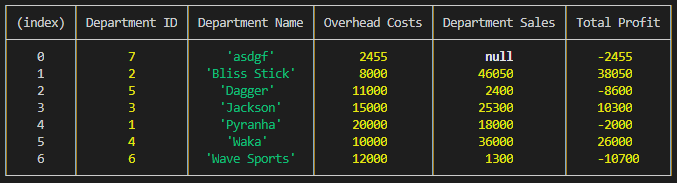
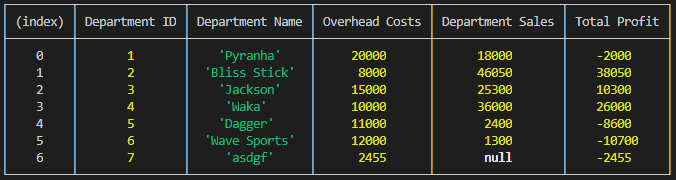
README.md now complete with all instructions as well as images and demonstration video for bamazonSupervisor.js

diff --git a/assets/javascript/bamazonSupervisor.js b/assets/javascript/bamazonSupervisor.js
@@ -20,6 +20,25 @@ function endConn() {
     })  
 }
 
+function rejectRecord() {
+    //prompt the supervisor for what to do when the record is rejected
+    inquirer
+        .prompt ([
+            {
+                type: "list",
+                name: "afterReject",
+                message: "\n\nWhat would you like to do now?\n\n",
+                choices: ["Re-enter the record", "Go back to the main menu", "Exit entirely"],
+                default: "Re-enter the record"
+            },
+        ])
+        .then( answers => {
+            if (answers.afterReject === "Re-enter the record") getDepartment();
+            else if (answers.afterReject === "Go back to the main menu") displayOptions();
+            else endConn();
+        })
+}
+
 function nextTask() {
     //prompt the supervisor for the next task they wish to undertake
     inquirer
@@ -60,6 +79,31 @@ function addDepartment() {
     })
 }
 
+function checkProd() {
+    //ask the user to confirm their data entry
+    console.log("\n\nYou have entered the following information for the new record: " +
+                "\n====================================" +
+                "\nDepartment Name: " + newDept[0] + 
+                "\nDepartment Overheads: " + newDept[1] + 
+                "\n====================================");
+    inquirer
+        .prompt ([
+            {  //user happy for the INSERT to proceed
+                type: "list",
+                name: "recordOk",
+                message: "\n\nAre you happy with the details of the entry?",
+                choices: ["Yes", "No"],
+                default: "Yes"
+            },
+        ])
+        .then(answers => {
+            if(answers.recordOk === "Yes") {
+                addDepartment(); //INSERT the new department into the database
+            }
+            else rejectRecord()  //query what the user wants to do       
+        })
+}
+
 function getDepartment() {
     //prompts the user for the department name
     inquirer
@@ -93,7 +137,7 @@ function getDepartment() {
             //answers of the type {department: 'Riot', overheads: '10000'}
             newDept[0] = answers.department;
             newDept[1] = answers.overheads;
-            addDepartment();
+            checkProd();
         })  
 }
 
@@ -111,7 +155,7 @@ function displaySales() {
                     "LEFT JOIN products AS S2 " +
                     "ON S1.departmentname = S2.departmentname " + 
                     "GROUP BY departmentID, S1.departmentname, overheadcosts " + 
-                    "ORDER BY S1.departmentname",
+                    "ORDER BY S1.departmentid",
         function(err, rows, fields) {
             if (err) throw err;
             console.table(rows);

diff --git a/README.md b/README.md
@@ -67,9 +67,6 @@ Upon intiating the node application _node bamazonManager.js_, the manager is pre
         1. Exit the application and close the database connection.
 
 
-
-
-
 # bamazonSupervisor
 **Purpose:**
 
@@ -84,10 +81,43 @@ Upon intiating the node application _node bamazonSupervisor.js_, the supervisor 
 **View products sales by department**
 1. The supervisor is presented with a table showing the results of a query which performs aggregate functions on the productsales column and also calculates the totalprofit given the overheadcosts and aggregate of productsales for each department. Results are obtained by left joining (in order to get new departments just added which do not yet have productsales) the department and products table and the results are grouped by the departmentID, departmentname and overhead costs.
 
-Department Overheads | Product Sales by Department
--------------------- | ---------------------------
-![Department overheads](assets/images/Departmentoverheads.png) | ![Product sales by department](assets/images/Productsalesbydepartment.png)
-Total Profit
-------------
-![Total Profit](assets/images/Totalprofit.png)
+**Create new department**
+1. The supervisor is asked for the name of the new department and the overheads for the new department. The new department name is required to be non-empty and the overheads is required to be a non-empty number (zero is permissible).
+1. The manager is then presented with a summary of the details of the new department and can optionally accept the record or reject
+    1. If the data is accepted, the record is inserted into the departments table of the database.
+    1. If the data is not accepted the supervisor is presented with three options to choose from.
+        1. Re-enter the record which takes control back to step 1 above.
+        1. Go back to the main menu which takes control to the menu allowing choices to view product sales by department or create new department.
+        1. Exit the application and close the database connection.
+
+<table border="1">
+    <thead>
+        <tr>
+            <th>Department Overheads</th>
+            <th>Product sales by department</th>
+        </tr>
+    </thead>
+    <tbody>
+        <tr>
+            <td><img src="assets/images/Departmentoverheads.png" alt="Department overheads"></td>
+            <td><img src="assets/images/Productsalesbydepartment.png" alt="Product sales by department"></td>
+        </tr>
+        <tr>
+            <th colspan=2>Total Profit</th>
+        </tr>
+        <tr>
+            <td colspan=2>
+              <img src="assets/images/Totalprofit.png" alt="Total Profit">
+            </td>
+        </tr>
+        <tr>
+            <th colspan=2>Demonstration of bamazon Supervisor application</th>
+        </tr>
+        <tr>
+            <td colspan=2 style="text-align:center">
+              <a href="assets/images/Demonstration of bamazonSupervisor.webm">Demonstration of bamazonSupervisor.js</a>
+            </td>
+        </tr>
+    </tbody>
+</table>
 
